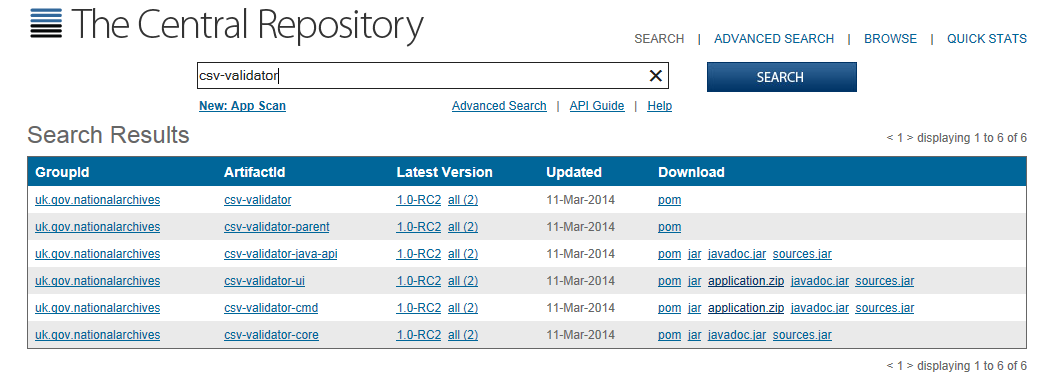
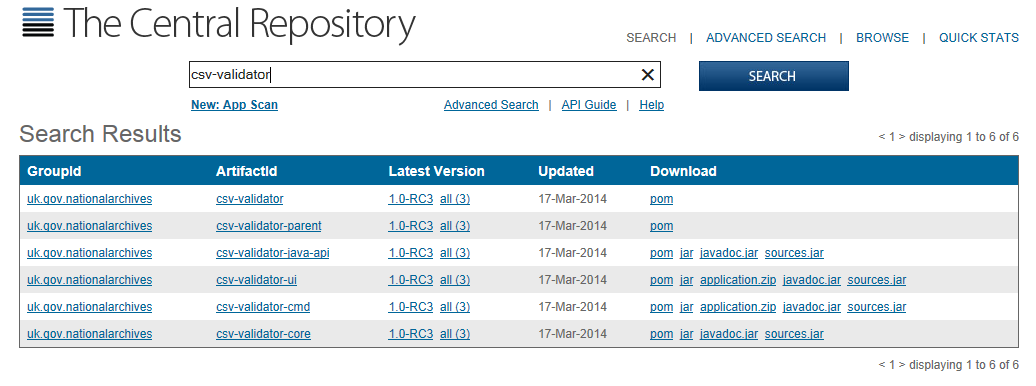
update for release of RC3

diff --git a/index.html b/index.html
@@ -115,7 +115,7 @@
 				<p>
 				The core of the CSV Validator is written in Scala 2.10, Scala runs in the Java Virtual Machine, so requires Java 6 to be installed on your computer in order to run. 
 				The latest release build is automatically published from <a href="https://github.com/digital-preservation/csv-validator">the source code repository on GitHub</a>, 
-				to Maven Central <a href="http://search.maven.org/#search%7Cga%7C1%7Ccsv-validator">currently (11 March 2014), Version 1.0, Release Candidate 2 (1.0-RC2)</a>.
+				to Maven Central <a href="http://search.maven.org/#search%7Cga%7C1%7Ccsv-validator">currently (18 March 2014), Version 1.0, Release Candidate 3 (1.0-RC3)</a>.
 				</p>
 				<a href="http://search.maven.org/#search%7Cga%7C1%7Ccsv-validator"><img src="images/Maven-Central.png" alt="Screenshot showing packages in maven Central" id="MavenCentral"></a>
 				<p>
